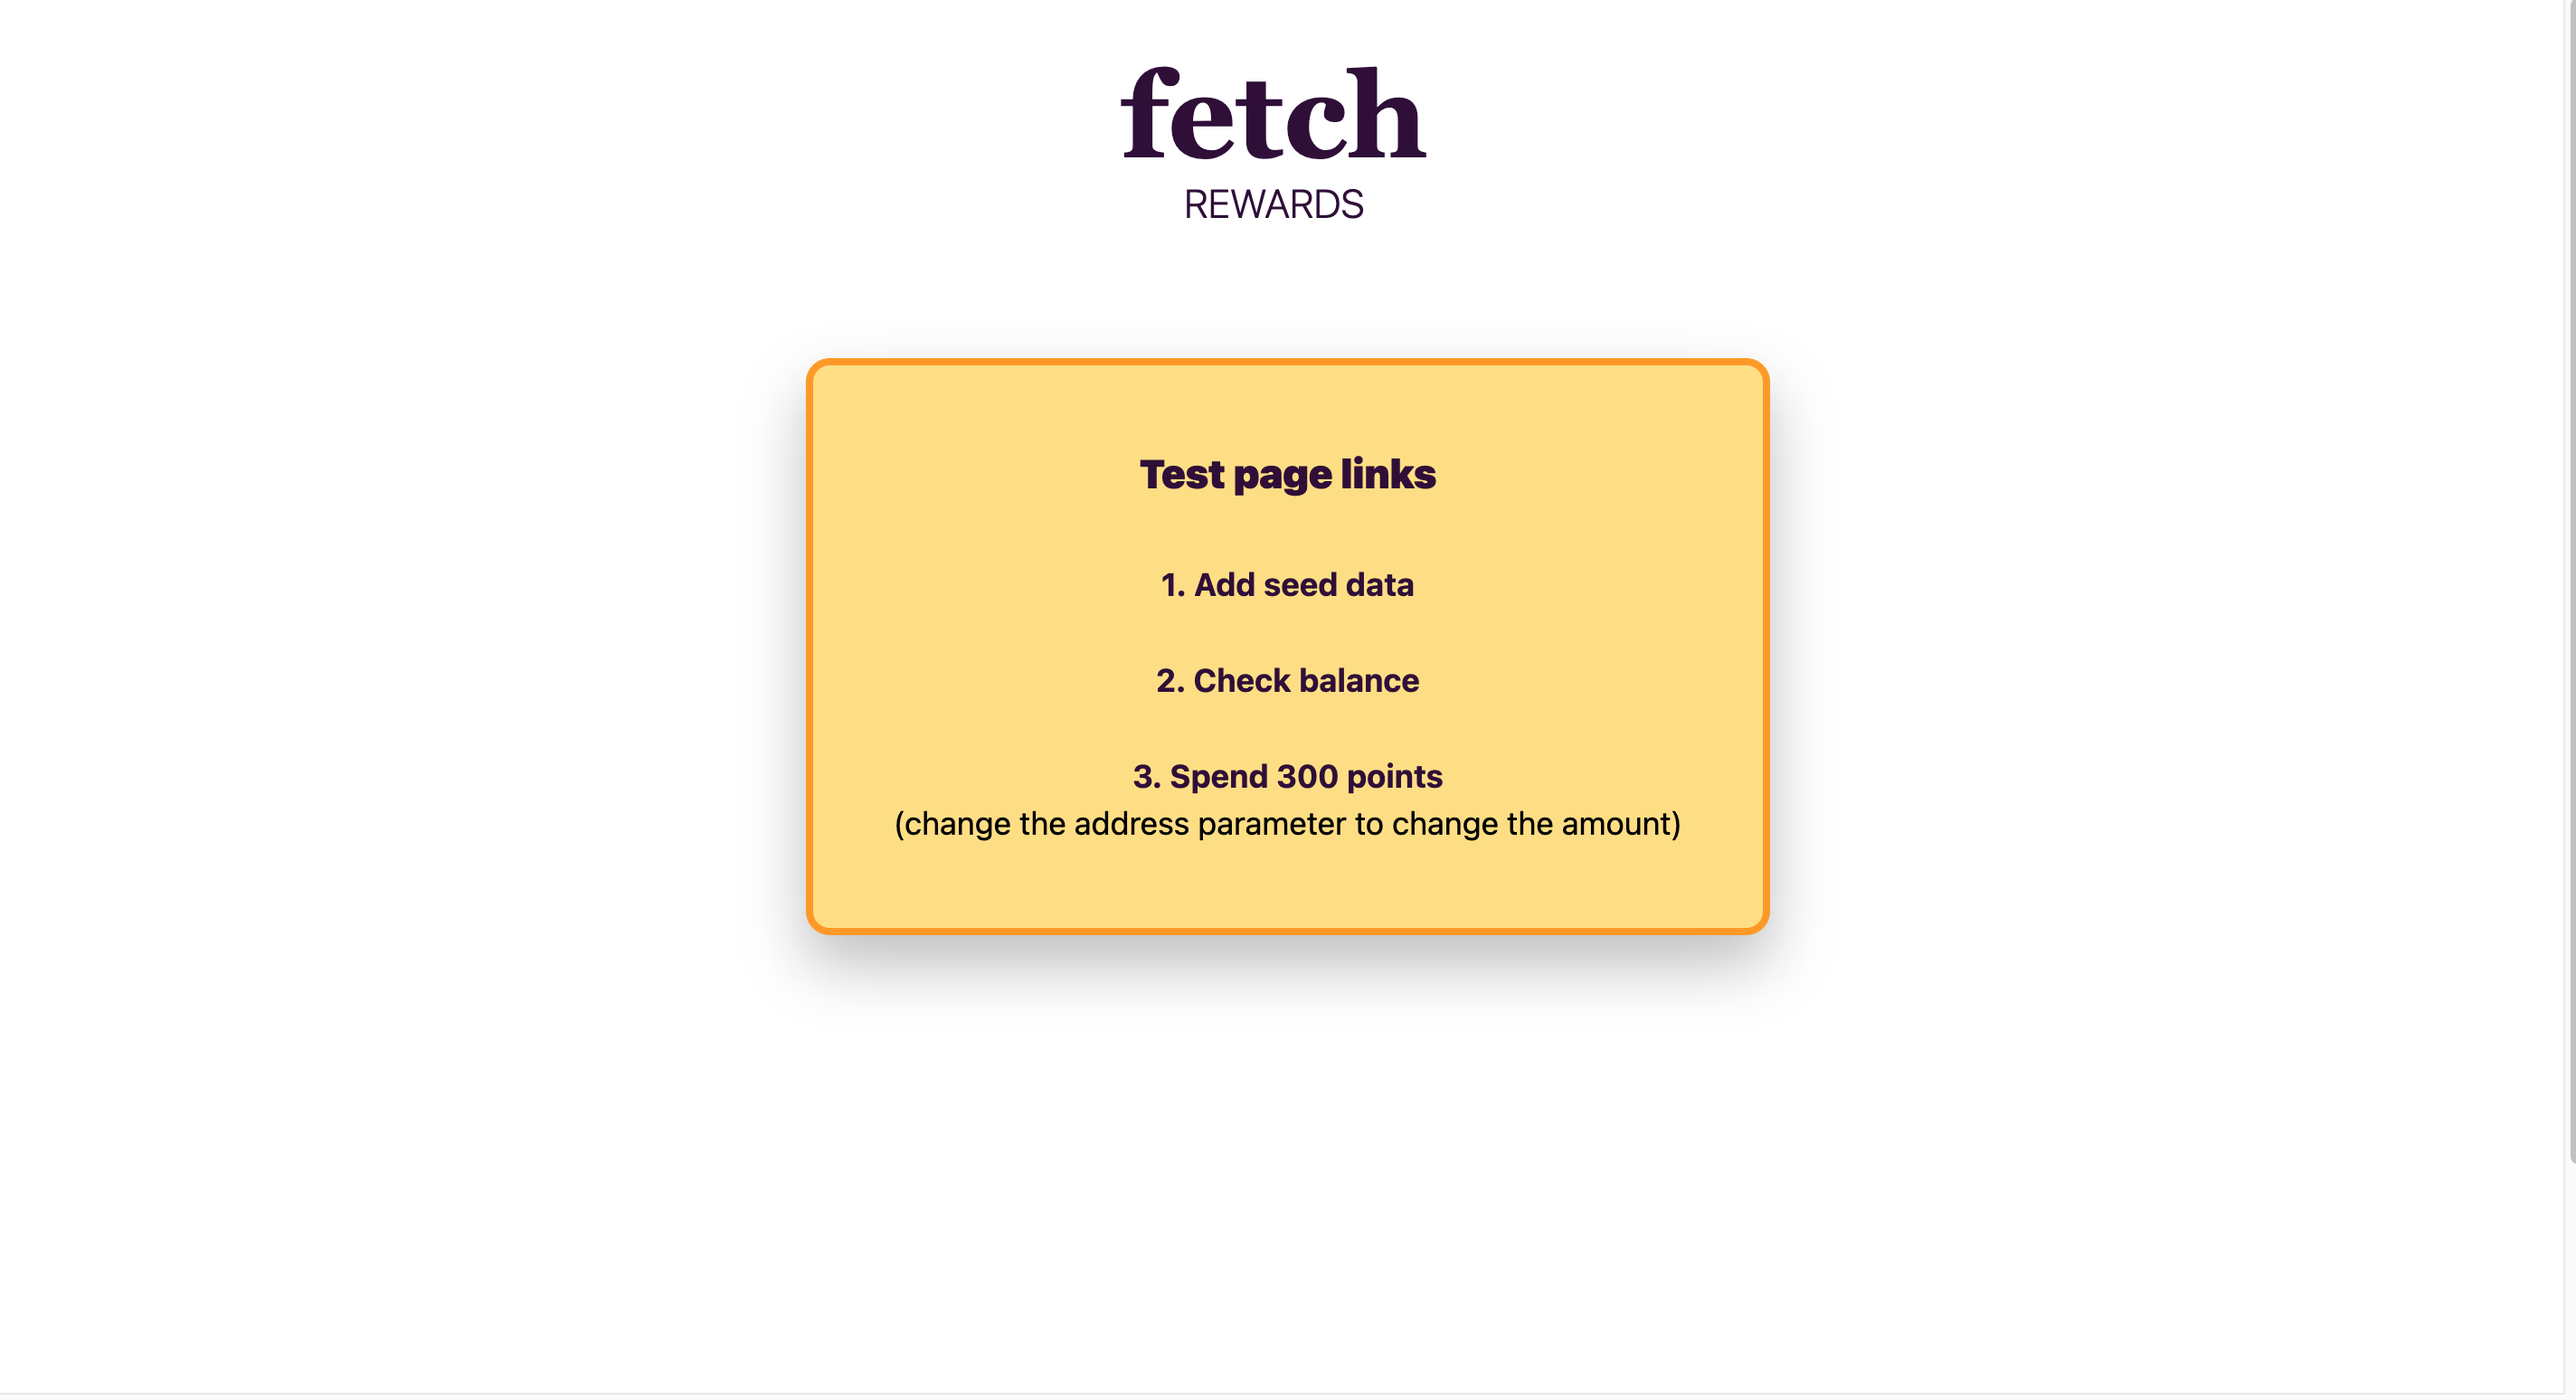
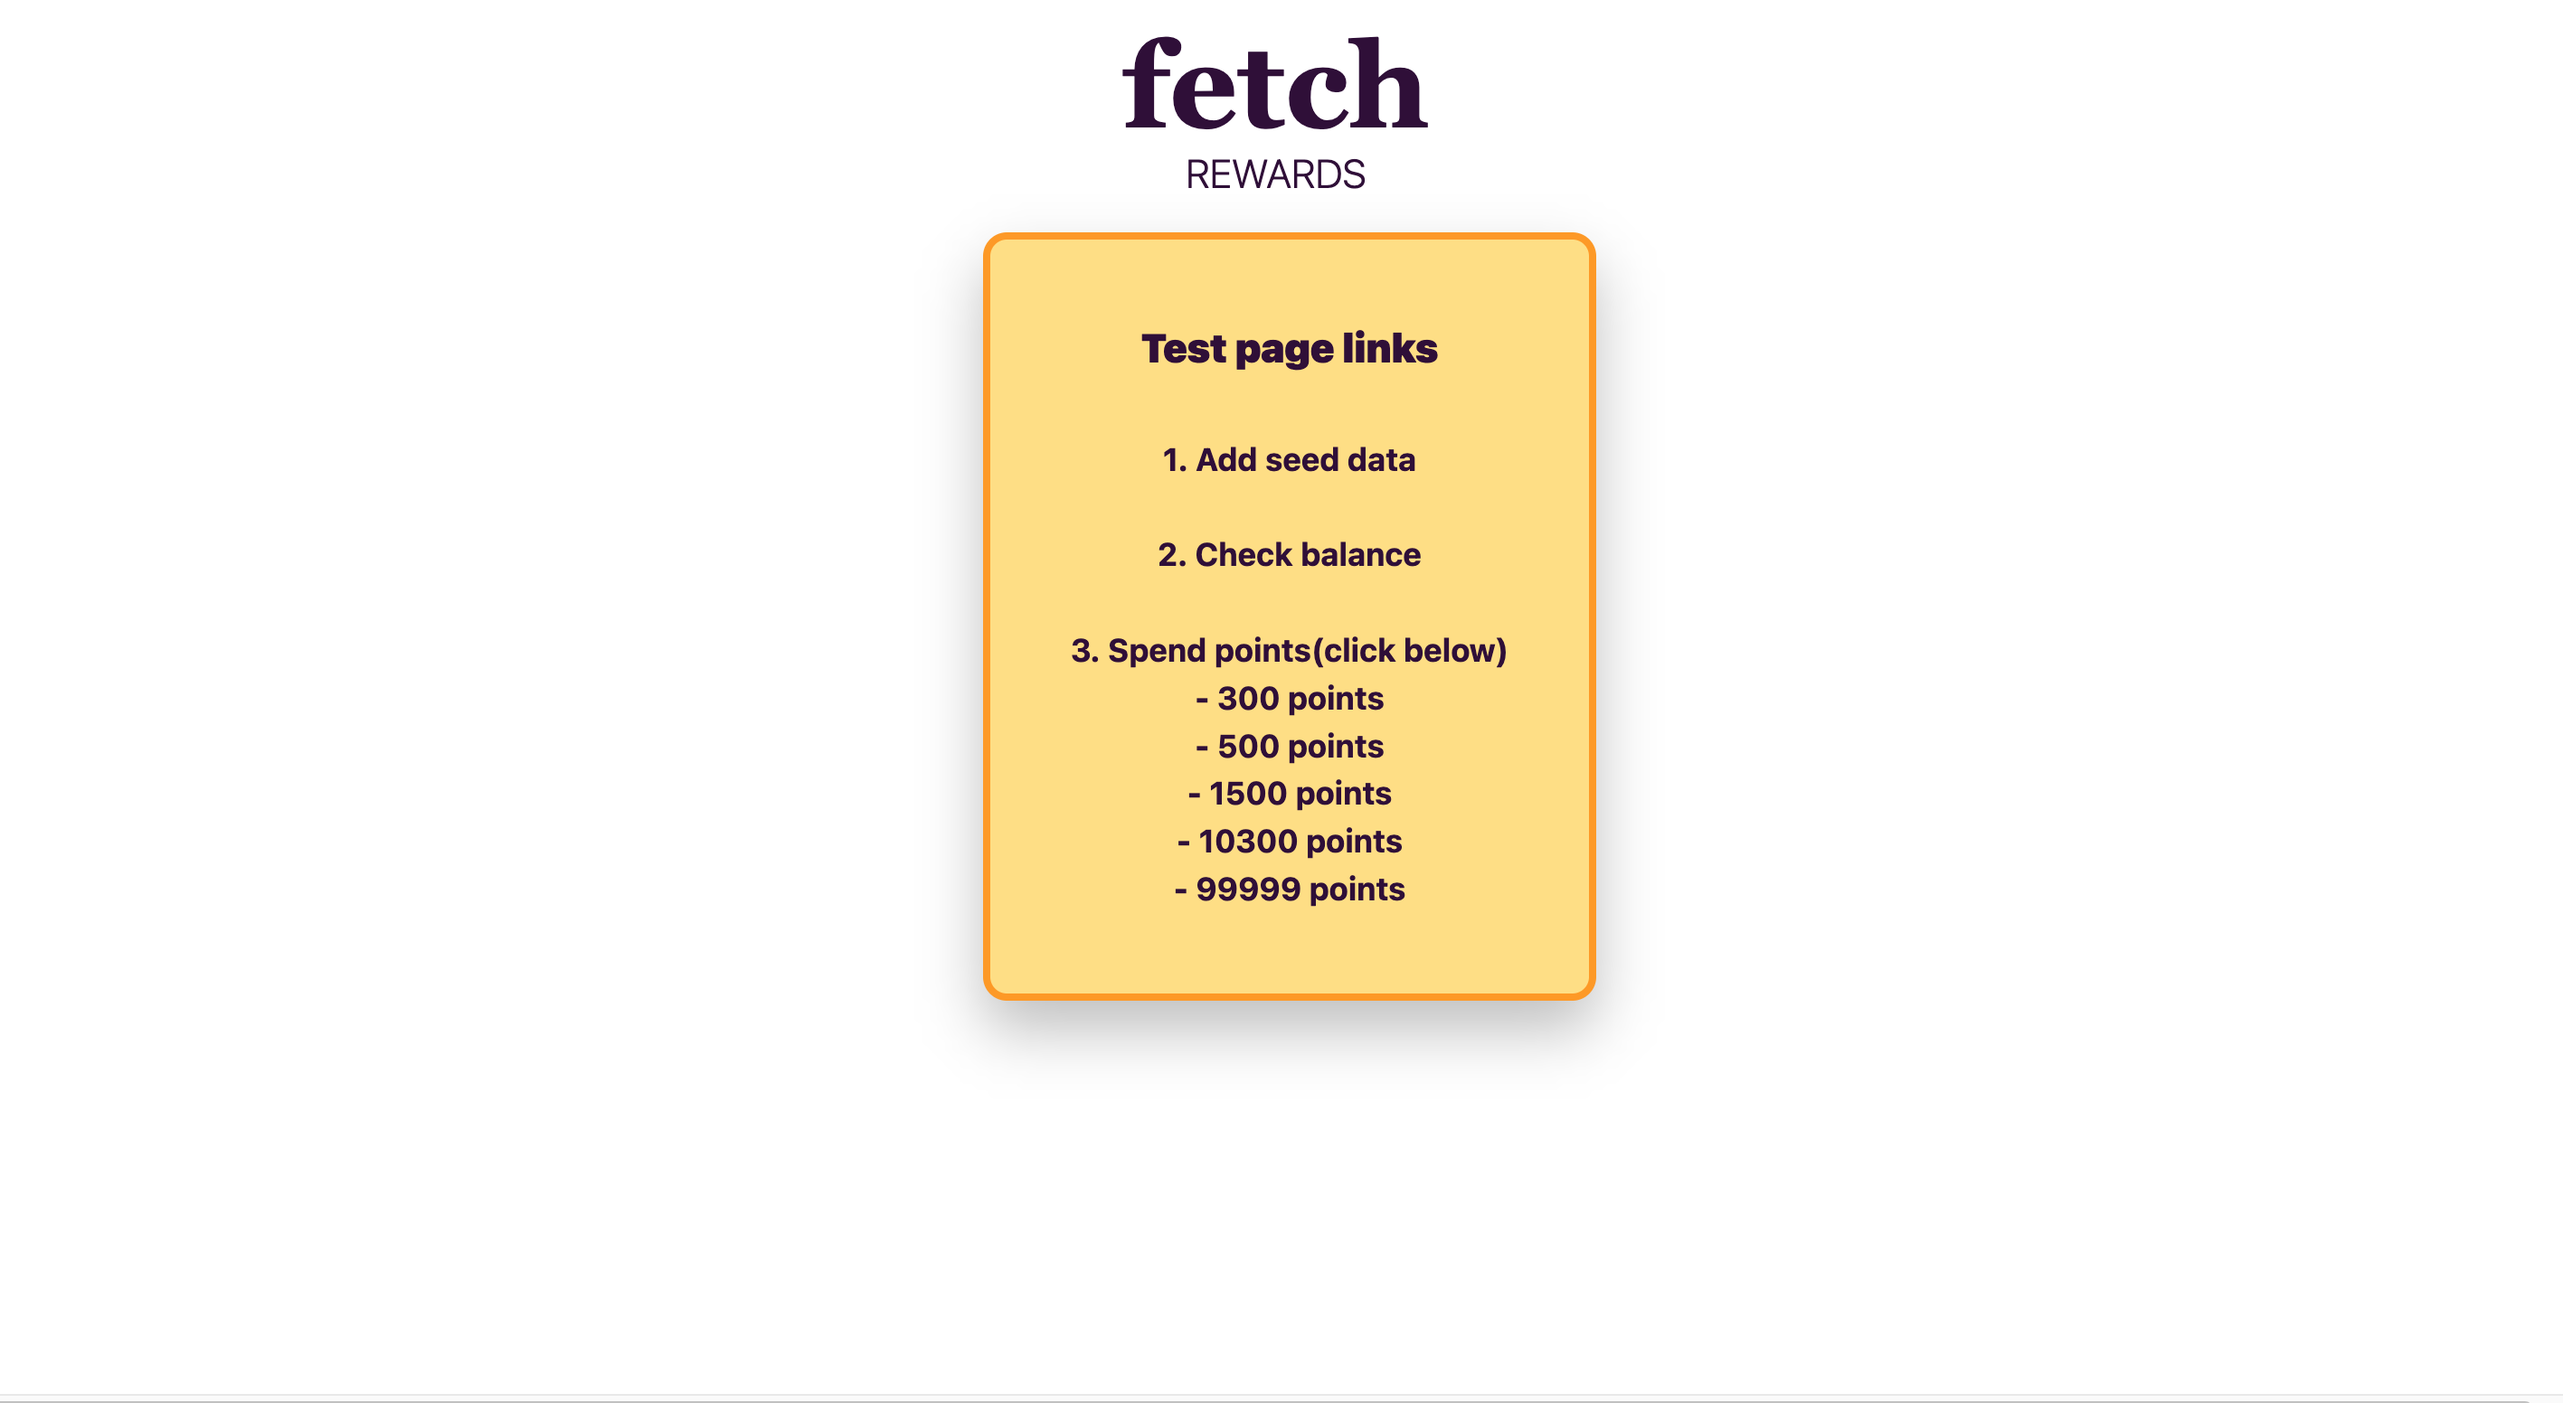
readme update

Changed region(s): [[0.3105, 0.031, 0.7142, 0.7442], [0.0, 0.9922, 0.9936, 1.0], [0.9936, 0.0, 1.0, 0.8372]]

diff --git a/README.md b/README.md
@@ -26,13 +26,8 @@ To start a test, please open locahost.
 please click the links.
 1. adding seed data
 2. check total balance and remained points per payer.
-3. spend points. If you want to change the amount of pts, please change the param.
-   - for example,
-   - spend 300 : http://localhost:3000/transaction/spend/300)
-   - spend 1500 : http://localhost:3000/transaction/spend/1500)
-   - spend 99999 : http://localhost:3000/transaction/spend/99999)
-
-
+3. spend points. 
+  
 ## Technologies used
 - express 
 - MongoDB
